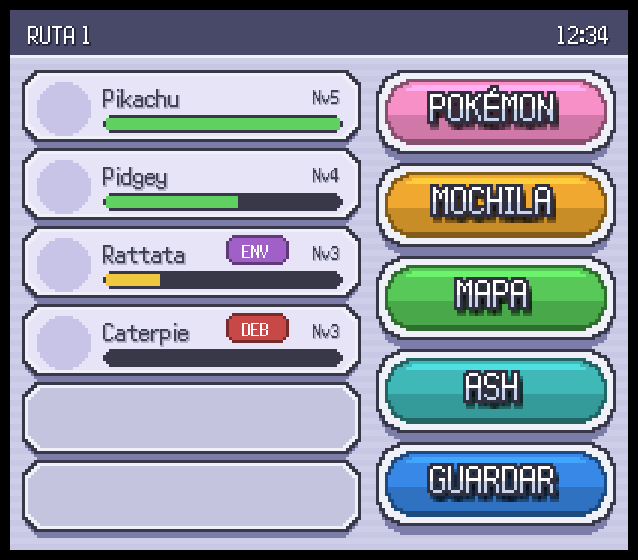
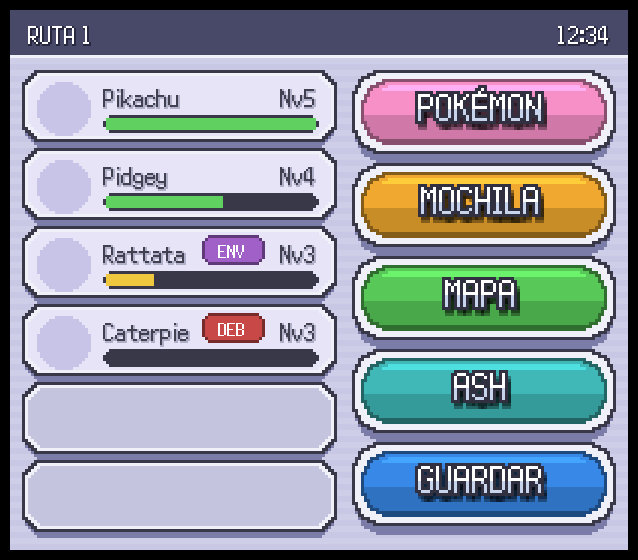
Docs: bag approved in its new layout; audit of the approved screens against the rules
Claude-Session: https://claude.ai/code/session_01DHr5gH1wGn6zvSQQgLyG2H

diff --git a/docs/ds-screen/ds_mock_bag_battle.py b/docs/ds-screen/ds_mock_bag_battle.py
@@ -18,7 +18,7 @@ import ds_mock as m
 W, H = 620, 540
 CUT, TOP, ROW = 180, 92, 43                                       # background cut, room for the pockets, row pitch
 GROW_LIST, GROW_DESC = 44, 24
-if STATE == 'item': GROW_LIST, GROW_DESC = GROW_LIST - ROW, GROW_DESC + ROW   # the options take the last row's room: two rows of buttons
+if STATE in ('item', 'battle'): GROW_LIST, GROW_DESC = GROW_LIST - ROW, GROW_DESC + ROW   # the options take the last row's room: two rows of buttons
 ITEMS = [('POTION', 'Poción', 5), ('SUPERPOTION', 'Superpoción', 2), ('ANTIDOTE', 'Antídoto', 3), ('PARALYZEHEAL', 'Antiparalizador', 1),
          ('AWAKENING', 'Despertar', 2), ('BURNHEAL', 'Antiquemar', 1), ('ICEHEAL', 'Antihielo', 1)]
 DESC = ['Medicina en espray que', 'restaura 20 PS de un', 'Pokémon.']   # wrapped to the room left by the buttons
@@ -40,12 +40,12 @@ def screen():
     lx, ly, lw = 6, TOP + 10, W - 6 - 52                           # inside of the list frame
     cur = b.img('Pictures/Bag/cursor.png'); cur = b.repeat_col(cur, 141, lw - cur.width + 8)
     s.alpha_composite(cur, (lx - 2, ly - 12 + ROW * b.SEL))   # the image has 12 px of empty margin above its frame
-    for i, (icon, name, qty) in enumerate(ITEMS[:6] if STATE == 'item' else ITEMS):
+    for i, (icon, name, qty) in enumerate(ITEMS[:6] if STATE in ('item', 'battle') else ITEMS):
         y = ly + ROW * i
         s.alpha_composite(b.img('Items/%s.png' % icon), (lx + 12, y - 3))
         b.text(d, name, lx + 68, y + 3, INK, INK_SH); b.text(d, 'x%3d' % qty, lx + lw - 24, y + 3, INK, INK_SH, 1)
     top = TOP + (288 - 4) + GROW_LIST
-    lines = {'battle': DESC, 'world': ['Medicina en espray que restaura 20 PS', 'de un Pokémon.'], 'item': []}[STATE]
+    lines = {'battle': ['Medicina en espray que restaura 20 PS de un', 'Pokémon.'], 'world': ['Medicina en espray que restaura 20 PS', 'de un Pokémon.'], 'item': []}[STATE]
     for i, line in enumerate(lines): b.text(d, line, 24, top + 10 + 32 * i, (248, 248, 248), (0, 0, 0))
     one = s.resize((W * 2, H * 2), Image.NEAREST)
     sheet = b.img('Pictures/Bag/icon_pocket.png')                 # pocket emblems at 3x, as on the bag
@@ -57,9 +57,14 @@ def screen():
         one.alpha_composite(e.resize((84, 84), Image.NEAREST), (cx * 2 - 42, cy * 2 - 42))
     m.SHADOW = (72, 76, 84)
     green, blue = (88, 200, 88), (56, 136, 232)
-    row = {'battle': [('USAR', green, 44), ('VOLVER', blue, 48)], 'world': [('VOLVER', blue, 48)],
+    row = {'battle': [], 'world': [('VOLVER', blue, 48)],
            'item': []}[STATE]
-    if STATE == 'item':
+    if STATE == 'battle':                                         # description on top, then one row of two wide buttons
+        key = Image.new('RGBA', (202, 28), (0, 0, 0, 0)); kd = ImageDraw.Draw(key)
+        m.button(kd, (2, 1, 99, 24), green, 9, selected=True); m.pix_text(key, 'USAR', 51, 13, 1)
+        m.button(kd, (102, 1, 199, 24), blue, 9); m.pix_text(key, 'VOLVER', 151, 13, 1)
+        key = key.resize((202 * 6, 28 * 6), Image.NEAREST); one.alpha_composite(key, (14, top * 2 + 12 + 27 * 6))
+    elif STATE == 'item':
         # Options in a 2x2 grid of equal buttons, wide enough for the longest word of the game's four languages
         # (German REGISTRIEREN, French ENREGISTRER), so the layout is the same in all of them.
         words = {'es': ('USAR', 'DAR', 'TIRAR', 'CANCELAR'), 'de': ('BENUTZEN', 'GEBEN', 'WEGWERFEN', 'ABBRECHEN'),

diff --git a/docs/ds-screen/ds_mock_party.py b/docs/ds-screen/ds_mock_party.py
@@ -125,8 +125,8 @@ def actions(options=None, line=None, held=False):
     grid = Image.new('RGBA', (bw + 2, len(options) * 31), (0, 0, 0, 0)); gd = ImageDraw.Draw(grid)
     for n, (label, col) in enumerate(options):
         by = n * 31
-        m.button(gd, (1, by + 1, bw, by + 27), col, 9, selected=(n == 0), lift=(1 if n == 0 else 0))
-        m.pix_text(grid, label, (bw + 1) // 2, by + 14 - (1 if n == 0 else 0), 1)
+        m.button(gd, (1, by + 1, bw, by + 27), col, 9, selected=(n == 0), lift=0)
+        m.pix_text(grid, label, (bw + 1) // 2, by + 14, 1)
     grid = grid.resize((grid.width * 6, grid.height * 6), Image.NEAREST)
     one.paste(grid, ((W * 2 - grid.width) // 2, 314), grid)
     footer(one, d, line or '¿Qué hacer con %s?' % PARTY[SELECTED][0], home=True)
@@ -152,8 +152,8 @@ def summary(page=0):
             for col, o in (((48, 48, 64), 1), ((255, 255, 255), 0)): ud.line((xx + o, 13 - k + o, xx + o, 13 + k + o), fill=col)
     for n, label in enumerate(PAGES):
         by = 30 + n * 23
-        m.button(ud, (X0 + 1, by, X0 + 119, by + 20), (240, 168, 48) if n == page else (168, 168, 196), 9, selected=(n == page), lift=(1 if n == page else 0))
-        m.pix_text(ui, label, X0 + 60, by + 10 - (1 if n == page else 0), 1)
+        m.button(ud, (X0 + 1, by, X0 + 119, by + 20), (240, 168, 48) if n == page else (168, 168, 196), 9, selected=(n == page), lift=0)
+        m.pix_text(ui, label, X0 + 60, by + 10, 1)
     ui = ui.resize((ui.width * 6, ui.height * 6), Image.NEAREST)
     one.paste(ui, ((W * 2 - ui.width) // 2, 8), ui)
     footer(one, d, 'Los datos se ven arriba.', home=True)
@@ -237,7 +237,7 @@ def battle_info():
         else: m.ttf(d, '-', L + 210, y, 65, ink, shd, 'lm')
     m.SHADOW = tuple(int(v * 0.6) for v in one.getpixel((W * 2 - 40, H * 2 - 20))[:3])
     key = Image.new('RGBA', (206, 26), (0, 0, 0, 0)); kd = ImageDraw.Draw(key)
-    m.button(kd, (2, 1, 100, 22), (88, 200, 88), 9, selected=True, lift=1); m.pix_text(key, 'CAMBIAR', 51, 10, 1)
+    m.button(kd, (2, 1, 100, 22), (88, 200, 88), 9, selected=True); m.pix_text(key, 'CAMBIAR', 51, 11, 1)
     m.button(kd, (106, 1, 129, 22), (88, 200, 88), 9)
     for col, o in (((48, 48, 64), 1), ((255, 255, 255), 0)):
         for r, row in enumerate(HOUSE):

diff --git a/docs/ds-screen/ds_mock_overworld.py b/docs/ds-screen/ds_mock_overworld.py
@@ -24,7 +24,7 @@ ACTIONS = [('POKéMON', (248, 144, 200)), ('MOCHILA', (240, 168, 48)), ('MAPA', 
 def home():
     a = Image.new('RGB', (AW, AH)); d = ImageDraw.Draw(a); m.background(d)
     d.rectangle((0, 0, AW, 14), fill=(72, 72, 104)); d.line((0, 15, AW, 15), fill=(240, 240, 248))
-    cells = [(4, 20 + i*26, 116, 20 + i*26 + 23) for i in range(6)]
+    cells = [(4, 20 + i*26, 108, 20 + i*26 + 23) for i in range(6)]
     for i, b in enumerate(cells):
         slot(a, d, b, i < len(PARTY))
         if i < len(PARTY):
@@ -36,7 +36,7 @@ def home():
             if tag:
                 d.rounded_rectangle((x1-44, y0+3, x1-24, y0+12), 3, fill=m.shade(tag, 0.6))
                 d.rounded_rectangle((x1-43, y0+4, x1-25, y0+11), 2, fill=tag)
-    btns = [(122, 20 + i*31, 201, 20 + i*31 + 27) for i in range(5)]
+    btns = [(114, 20 + i*31, 201, 20 + i*31 + 27) for i in range(5)]   # wide enough for SAUVEGARDER / SPEICHERN
     for (label, col), b in zip(ACTIONS, btns):
         m.button(d, b, col, 9)
         m.pix_text(a, label, (b[0]+b[2])//2, (b[1]+b[3])//2, 1)
@@ -45,7 +45,7 @@ def home():
     m.ttf(d, '12:34', (AW-6)*S, 7*S, 52, (255, 255, 255), (40, 40, 64), 'rm')
     for (n, lv, hp, tot, st), b in zip(PARTY, cells):
         m.ttf(d, n, (b[0]+27)*S, (b[1]+8)*S, 52, (64, 64, 80), (176, 176, 200), 'lm')
-        m.ttf(d, 'Nv' + str(lv), (b[2]-6)*S, (b[1]+8)*S, 39, (64, 64, 80), (176, 176, 200), 'rm')
+        m.ttf(d, 'Nv' + str(lv), (b[2]-6)*S, (b[1]+8)*S, 52, (64, 64, 80), (176, 176, 200), 'rm')
         if st or hp == 0: m.ttf(d, st or 'DEB', (b[2]-34)*S, (b[1]+7.5)*S, 39, (255, 255, 255), None, 'mm')
     return big
 

diff --git a/docs/ds-screen/ds_mock_route.py b/docs/ds-screen/ds_mock_route.py
@@ -51,10 +51,10 @@ def screen():
         ic = icon(sp, seen); big.paste(ic, ((b[0] + 2) * S, b[1] * S - 2), ic)
         name = NAMES.get(sp, sp.capitalize()) if seen else '???'
         lv = 'Nv %d' % lo if lo == hi else 'Nv %d-%d' % (lo, hi)
-        m.ttf(d, name, (b[0] + 26) * S, (b[1] + 7) * S, 52, (64, 64, 80), (176, 176, 200), 'lm')
-        m.ttf(d, lv, (b[0] + 26) * S, (b[1] + 16) * S, 39, (112, 112, 136), None, 'lm')
+        m.ttf(d, name, (b[0] + 26) * S, (b[1] + 6.5) * S, 52, (64, 64, 80), (176, 176, 200), 'lm')
+        m.ttf(d, lv, (b[0] + 26) * S, (b[1] + 15) * S, 52, (104, 104, 128), (200, 200, 220), 'lm')
         m.ttf(d, str(pct) + '%', (b[2] - 6) * S, (b[1] + 11) * S, 52, (64, 64, 80), (176, 176, 200), 'rm')
-    m.ttf(d, '??? = aún no lo has visto', 8 * S, 168 * S, 39, (112, 112, 136), None, 'lm')
+    m.ttf(d, '??? = sin ver', 8 * S, 168 * S, 52, (64, 64, 80), (176, 176, 200), 'lm')
     return big
 
 if __name__ == '__main__':

diff --git a/docs/ds-screen/ds_mock_save.py b/docs/ds-screen/ds_mock_save.py
@@ -51,7 +51,7 @@ def screen(done=DONE):
     m.SHADOW = (40, 40, 64)
     key = Image.new('RGBA', (206, 32), (0, 0, 0, 0)); kd = ImageDraw.Draw(key)
     if not done:
-        m.button(kd, (3, 1, 128, 28), (88, 200, 88), 9, selected=True, lift=1); m.pix_text(key, 'GUARDAR', 65, 13, 1)
+        m.button(kd, (3, 1, 128, 28), (88, 200, 88), 9, selected=True); m.pix_text(key, 'GUARDAR', 65, 14, 1)
     m.button(kd, (134, 6, 203, 28), (56, 136, 232), 9); m.pix_text(key, 'VOLVER', 168, 17, 1)
     key = key.resize((206 * 6, 32 * 6), Image.NEAREST); one.paste(key, (2, 1080 - 32 * 6 + 2), key)
     return one

diff --git a/docs/ds-screen/README.md b/docs/ds-screen/README.md
@@ -185,12 +185,11 @@ Mock-up: `ds_mock_save.py <game folder> <pixelfonts.txt> <out.png> [done]`.
   them to drop the selection and get the pockets back. Leaving the bag is always the list's CERRAR MOCHILA
   entry, as in the game; the two are named differently on purpose. Option buttons are 408 px wide and 168 px tall, evenly spaced; CANCELAR is 456 px
   wide. Three options fit at that height; with four or five they get lower.
-- Bag in battle (approved; `ds_mock_bag_battle.py <game folder> <out.png> <pixelfonts.txt>`): its own layout, for choosing
-  fast. The pockets in one row at the top (the approved round buttons), the item list as wide as the screen
-  with each item's own icon (2x) before its name and taller rows (seven visible), and at the foot the
-  description of the item under the cursor with USAR and VOLVER beside it. No big item box, no CERRAR MOCHILA
-  entry and no separate "item options" step: the game only offers Use in battle. The list's frame and arrows
-  are the game's, cut from its background and widened by repeating lines.
+- Bag in battle (approved; `ds_mock_bag_battle.py <game folder> <out.png> <pixelfonts.txt> battle`): the same
+  layout as the bag out of battle (pockets in a row on top, list as wide as the screen with each item's icon).
+  The foot always shows the description of the item under the cursor and, under it, one row with USAR and
+  VOLVER, both as wide as half the screen so any language fits. No "item options" step: the game only offers
+  Use in battle.
 - Party in battle (approved; `ds_mock_party.py ... battle`): the same party screen without dragging. Touching a
   Pokémon shows on the second screen itself, with no trip to the summary, only what matters to decide a switch:
   its card (HP, status, level), its types (after a "Tipo:" label) and its moves with their PP, on a cream panel, with the game's type
@@ -238,7 +237,7 @@ Every second-screen screen works with touch and with the buttons; nothing is tou
   pause menu on the top screen; it puts the cursor on the second screen's home buttons. Cancel from there gives
   the buttons back to the game.
 
-## Bag out of battle, new layout (pending approval)
+## Bag out of battle, new layout (approved; replaces the two-column bag)
 
 `ds_mock_bag_battle.py <game folder> <out.png> <pixelfonts.txt> world|item`. Proposed to replace the two-column
 bag (`ds_mock_bag.py`): the layout approved for the battle bag (pockets in a row on top, list as wide as the
@@ -255,3 +254,20 @@ translated strings, never hard-coded Spanish, and every button is sized for the 
 (for instance REGISTRIEREN / ENREGISTRER, WEGWERFEN, ABBRECHEN, SAUVEGARDER). Where a row of buttons cannot
 hold the longest words, the layout changes for every language (as in the bag's item options), not per language.
 To check when implementing: the home screen's save button and the map's wild Pokémon button.
+
+## Audit of the approved screens against the rules (2026-11-25)
+
+Fixed in the mock-ups:
+- Battle bag: USAR was too narrow for BENUTZEN / UTILISER and left the description three short lines; foot redone.
+- Home: buttons widened (SAUVEGARDER, SPEICHERN); party levels at the same size as the names.
+- Route sheet: levels and the "???" note were small unshadowed text; now 52 px with shadow.
+- Party options, held item options, summary remote, battle party, save: the selected button was drawn lifted,
+  which made the gaps uneven; static mock-ups now draw every button at rest.
+
+Left for implementation:
+- The `cmd` lettering has Á Â Ä È É Ê Í Ó Ö Ü; it lacks Ñ Ú À Ç Î Ô Û Ù. Add the glyphs any label needs.
+- Save card: "label: value" rows share 204 px; German "Gestartet:" with a full date and French time labels may not
+  fit. Use the game's own strings and shorten the date format, or let the value wrap under the label.
+- Home: status tags (ENV, DEB) still use small text inside their tag.
+- `overworld-map.png`, `overworld-route.png` and `screen-map.png` were removed: superseded by the scripts and by
+  the screen map artifact.
